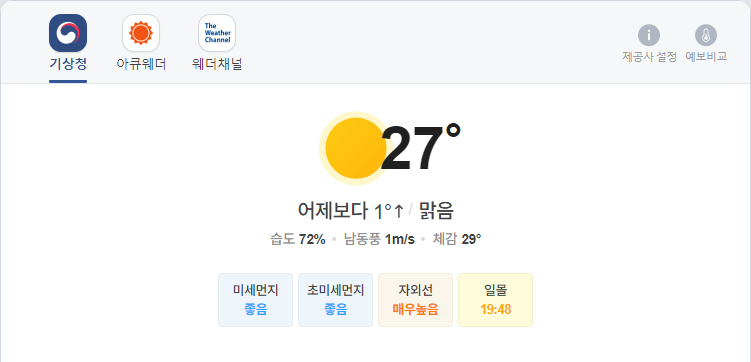
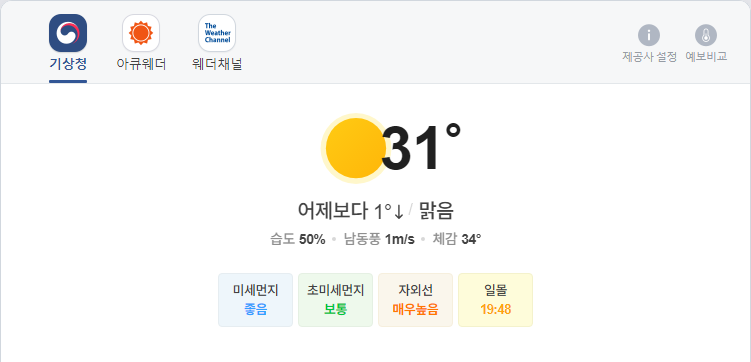
update result

diff --git a/README.md b/README.md
@@ -1,5 +1,5 @@
-##  2021-07-26 05:55:21   월요일 
-##### 날씨   -   어제보다 1° 높아요맑음  
+##  2021-07-26 09:17:18   월요일 
+##### 날씨   -   어제보다 1° 낮아요맑음  
 <center><img src="../img/naver_weather_week.png"></center>
 ----
 ----
@@ -23,7 +23,7 @@
 ##### 시장
 <table border="1" bordercolor="blue" align = "center" >
 <tr align = "right" > <td>Item</td><td>Price</td><td>Diff</td><td>Rate</td><td>Buy</td><td>Sell</td><td>...</td>  </tr>
-<tr align = "right" > <td>USD</td><td>1,151.0</td><td>2.0</td><td><font size="3" color="red">0.17%</font></td><td><font size="3" color="black">1,110</font></td><td><font size="3" color="black">0</font></td><td>0</td>  </tr>
+<tr align = "right" > <td>USD</td><td>1,153.0</td><td>1.8</td><td><font size="3" color="red">0.16%</font></td><td><font size="3" color="black">1,110</font></td><td><font size="3" color="black">0</font></td><td>0</td>  </tr>
 <tr align = "right" > <td>WTI</td><td>72.07</td><td>0.16</td><td><font size="3" color="red">0.22%</font></td><td><font size="3" color="black">29.0</font></td><td><font size="3" color="black">0</font></td><td>0</td>  </tr>
 <tr align = "right" > <td>GOLD</td><td>1,801.0</td><td>-3.6</td><td><font size="3" color="blue">-0.19%</font></td><td><font size="3" color="black">0</font></td><td><font size="3" color="black">0</font></td><td>0</td>  </tr>
 </table>
@@ -31,32 +31,32 @@
 ##### 주가
 <table border="1" bordercolor="blue" align = "center" >
 <tr align = "right" > <td>Item</td><td>Price</td><td>Diff</td><td>Rate</td><td>Purchased</td><td>Sell</td><td>Buy</td>  </tr>
-<tr align = "right" > <td>한국 전력</td><td>25,150</td><td>0</td><td><font size="3" color="black">0.0%</font></td><td>25,720</td><td><font size="3" color="black">27,700</font></td><td><font size="3" color="black">20,700</font></td>  </tr>
-<tr align = "right" > <td>삼성엔지니어.</td><td>23,650</td><td>1,000</td><td><font size="3" color="red">4.42%</font></td><td>18,935</td><td><font size="3" color="black">20,000</font></td><td><font size="3" color="black">8,000</font></td>  </tr>
-<tr align = "right" > <td>CJ CGV</td><td>29,800</td><td>-50</td><td><font size="3" color="blue">-0.17%</font></td><td>34,895</td><td><font size="3" color="black">36,000</font></td><td><font size="3" color="black">0</font></td>  </tr>
-<tr align = "right" > <td>아모레퍼시픽</td><td>234,500</td><td>-6,500</td><td><font size="3" color="blue">-2.7%</font></td><td>235,350</td><td><font size="3" color="black">240,000</font></td><td><font size="3" color="black">130,000</font></td>  </tr>
-<tr align = "right" > <td>한화</td><td>30,400</td><td>100</td><td><font size="3" color="red">0.33%</font></td><td>25,550</td><td><font size="3" color="black">26,250</font></td><td><font size="3" color="black">26,250</font></td>  </tr>
-<tr align = "right" > <td>NAVER</td><td>452,000</td><td>12,000</td><td><font size="3" color="red">2.73%</font></td><td>147,200</td><td><font size="3" color="black">386,000</font></td><td><font size="3" color="black">286,000</font></td>  </tr>
-<tr align = "right" > <td>LG 화학우</td><td>380,000</td><td>-1,000</td><td><font size="3" color="blue">-0.26%</font></td><td>202,490</td><td><font size="3" color="black">384,000</font></td><td><font size="3" color="orangered">384,000</font></td>  </tr>
-<tr align = "right" > <td>스튜디오드래.</td><td>95,200</td><td>600</td><td><font size="3" color="red">0.63%</font></td><td>81,243</td><td><font size="3" color="black">85,200</font></td><td><font size="3" color="black">85,200</font></td>  </tr>
-<tr align = "right" > <td>QV미국IT</td><td>31,660</td><td>485</td><td><font size="3" color="red">1.56%</font></td><td>0</td><td><font size="3" color="black">30,000</font></td><td><font size="3" color="black">20,000</font></td>  </tr>
-<tr align = "right" > <td>삼성 전자우</td><td>73,100</td><td>-200</td><td><font size="3" color="blue">-0.27%</font></td><td>60,675</td><td><font size="3" color="black">76,000</font></td><td><font size="3" color="black">55,000</font></td>  </tr>
-<tr align = "right" > <td>LS</td><td>71,200</td><td>0</td><td><font size="3" color="black">0.0%</font></td><td>71,900</td><td><font size="3" color="black">82,000</font></td><td><font size="3" color="black">60,000</font></td>  </tr>
-<tr align = "right" > <td>한화에어로스.</td><td>51,800</td><td>-400</td><td><font size="3" color="blue">-0.77%</font></td><td>25,700</td><td><font size="3" color="black">30,000</font></td><td><font size="3" color="black">24,000</font></td>  </tr>
-<tr align = "right" > <td>한화시스템.</td><td>17,000</td><td>-50</td><td><font size="3" color="blue">-0.29%</font></td><td>16,875</td><td><font size="3" color="black">30,000</font></td><td><font size="3" color="black">14,000</font></td>  </tr>
-<tr align = "right" > <td>카카오</td><td>149,500</td><td>2,000</td><td><font size="3" color="red">1.36%</font></td><td>405,500</td><td><font size="3" color="black">440,000</font></td><td><font size="3" color="orangered">400,000</font></td>  </tr>
-<tr align = "right" > <td>호텔 신라</td><td>94,300</td><td>-1,700</td><td><font size="3" color="blue">-1.77%</font></td><td>88,650</td><td><font size="3" color="black">100,000</font></td><td><font size="3" color="black">70,000</font></td>  </tr>
-<tr align = "right" > <td>S-Oil</td><td>96,300</td><td>-400</td><td><font size="3" color="blue">-0.41%</font></td><td>62,842</td><td><font size="3" color="black">100,000</font></td><td><font size="3" color="black">50,000</font></td>  </tr>
-<tr align = "right" > <td>LG전자</td><td>166,500</td><td>2,500</td><td><font size="3" color="red">1.52%</font></td><td>82,022</td><td><font size="3" color="black">100,000</font></td><td><font size="3" color="black">60,000</font></td>  </tr>
-<tr align = "right" > <td>KT&G</td><td>82,900</td><td>0</td><td><font size="3" color="black">0.0%</font></td><td>79,700</td><td><font size="3" color="black">100,000</font></td><td><font size="3" color="black">70,000</font></td>  </tr>
-<tr align = "right" > <td>지역난방공사</td><td>42,200</td><td>50</td><td><font size="3" color="red">0.12%</font></td><td>43,590</td><td><font size="3" color="black">60,000</font></td><td><font size="3" color="black">30,000</font></td>  </tr>
-<tr align = "right" > <td>맥쿼리인프라</td><td>12,450</td><td>50</td><td><font size="3" color="red">0.4%</font></td><td>12,577</td><td><font size="3" color="black">30,000</font></td><td><font size="3" color="black">10,000</font></td>  </tr>
-<tr align = "right" > <td>KOEDX은행</td><td>7,360</td><td>0</td><td><font size="3" color="black">0.0%</font></td><td>7,578</td><td><font size="3" color="black">8,825</font></td><td><font size="3" color="black">6,225</font></td>  </tr>
-<tr align = "right" > <td>글로벌럭셔리</td><td>18,025</td><td>0</td><td><font size="3" color="black">0.0%</font></td><td>16,302</td><td><font size="3" color="black">20,000</font></td><td><font size="3" color="black">10,000</font></td>  </tr>
-<tr align = "right" > <td>TIRGER200건설</td><td>3,385</td><td>0</td><td><font size="3" color="black">0.0%</font></td><td>3,440</td><td><font size="3" color="black">4,000</font></td><td><font size="3" color="black">3,000</font></td>  </tr>
-<tr align = "right" > <td>KODEXK미래차</td><td>10,890</td><td>-65</td><td><font size="3" color="blue">-0.59%</font></td><td>10,955</td><td><font size="3" color="black">20,000</font></td><td><font size="3" color="black">10,000</font></td>  </tr>
-<tr align = "right" > <td>TIGER글로벌BBIG</td><td>11,585</td><td>90</td><td><font size="3" color="red">0.78%</font></td><td>11,020</td><td><font size="3" color="black">20,000</font></td><td><font size="3" color="black">10,000</font></td>  </tr>
-<tr align = "right" > <td>TIGER퓨처모빌리티</td><td>11,105</td><td>-45</td><td><font size="3" color="blue">-0.4%</font></td><td>10,695</td><td><font size="3" color="black">20,000</font></td><td><font size="3" color="black">10,000</font></td>  </tr>
-<tr align = "right" > <td>한국금융지주</td><td>112,000</td><td>9,500</td><td><font size="3" color="red">9.27%</font></td><td>0</td><td><font size="3" color="black">82,000</font></td><td><font size="3" color="black">60,000</font></td>  </tr>
+<tr align = "right" > <td>한국 전력</td><td>25,100</td><td>-50</td><td><font size="3" color="blue">-0.2%</font></td><td>25,720</td><td><font size="3" color="black">27,700</font></td><td><font size="3" color="black">20,700</font></td>  </tr>
+<tr align = "right" > <td>삼성엔지니어.</td><td>23,250</td><td>-400</td><td><font size="3" color="blue">-1.69%</font></td><td>18,935</td><td><font size="3" color="black">20,000</font></td><td><font size="3" color="black">8,000</font></td>  </tr>
+<tr align = "right" > <td>CJ CGV</td><td>29,500</td><td>-300</td><td><font size="3" color="blue">-1.01%</font></td><td>34,895</td><td><font size="3" color="black">36,000</font></td><td><font size="3" color="black">0</font></td>  </tr>
+<tr align = "right" > <td>아모레퍼시픽</td><td>233,000</td><td>-1,500</td><td><font size="3" color="blue">-0.64%</font></td><td>235,350</td><td><font size="3" color="black">240,000</font></td><td><font size="3" color="black">130,000</font></td>  </tr>
+<tr align = "right" > <td>한화</td><td>30,450</td><td>50</td><td><font size="3" color="red">0.16%</font></td><td>25,550</td><td><font size="3" color="black">26,250</font></td><td><font size="3" color="black">26,250</font></td>  </tr>
+<tr align = "right" > <td>NAVER</td><td>460,000</td><td>8,000</td><td><font size="3" color="red">1.77%</font></td><td>147,200</td><td><font size="3" color="black">386,000</font></td><td><font size="3" color="black">286,000</font></td>  </tr>
+<tr align = "right" > <td>LG 화학우</td><td>378,000</td><td>-2,000</td><td><font size="3" color="blue">-0.53%</font></td><td>202,490</td><td><font size="3" color="black">384,000</font></td><td><font size="3" color="orangered">384,000</font></td>  </tr>
+<tr align = "right" > <td>스튜디오드래.</td><td>94,000</td><td>-1,200</td><td><font size="3" color="blue">-1.26%</font></td><td>81,243</td><td><font size="3" color="black">85,200</font></td><td><font size="3" color="black">85,200</font></td>  </tr>
+<tr align = "right" > <td>QV미국IT</td><td>31,660</td><td>0</td><td><font size="3" color="black">0.0%</font></td><td>0</td><td><font size="3" color="black">30,000</font></td><td><font size="3" color="black">20,000</font></td>  </tr>
+<tr align = "right" > <td>삼성 전자우</td><td>73,000</td><td>-100</td><td><font size="3" color="blue">-0.14%</font></td><td>60,675</td><td><font size="3" color="black">76,000</font></td><td><font size="3" color="black">55,000</font></td>  </tr>
+<tr align = "right" > <td>LS</td><td>70,800</td><td>-400</td><td><font size="3" color="blue">-0.56%</font></td><td>71,900</td><td><font size="3" color="black">82,000</font></td><td><font size="3" color="black">60,000</font></td>  </tr>
+<tr align = "right" > <td>한화에어로스.</td><td>51,300</td><td>-500</td><td><font size="3" color="blue">-0.97%</font></td><td>25,700</td><td><font size="3" color="black">30,000</font></td><td><font size="3" color="black">24,000</font></td>  </tr>
+<tr align = "right" > <td>한화시스템.</td><td>17,000</td><td>0</td><td><font size="3" color="black">0.0%</font></td><td>16,875</td><td><font size="3" color="black">30,000</font></td><td><font size="3" color="black">14,000</font></td>  </tr>
+<tr align = "right" > <td>카카오</td><td>150,500</td><td>1,000</td><td><font size="3" color="red">0.67%</font></td><td>405,500</td><td><font size="3" color="black">440,000</font></td><td><font size="3" color="orangered">400,000</font></td>  </tr>
+<tr align = "right" > <td>호텔 신라</td><td>94,000</td><td>-300</td><td><font size="3" color="blue">-0.32%</font></td><td>88,650</td><td><font size="3" color="black">100,000</font></td><td><font size="3" color="black">70,000</font></td>  </tr>
+<tr align = "right" > <td>S-Oil</td><td>95,700</td><td>-600</td><td><font size="3" color="blue">-0.62%</font></td><td>62,842</td><td><font size="3" color="black">100,000</font></td><td><font size="3" color="black">50,000</font></td>  </tr>
+<tr align = "right" > <td>LG전자</td><td>165,500</td><td>-1,000</td><td><font size="3" color="blue">-0.6%</font></td><td>82,022</td><td><font size="3" color="black">100,000</font></td><td><font size="3" color="black">60,000</font></td>  </tr>
+<tr align = "right" > <td>KT&G</td><td>82,700</td><td>-200</td><td><font size="3" color="blue">-0.24%</font></td><td>79,700</td><td><font size="3" color="black">100,000</font></td><td><font size="3" color="black">70,000</font></td>  </tr>
+<tr align = "right" > <td>지역난방공사</td><td>42,250</td><td>50</td><td><font size="3" color="red">0.12%</font></td><td>43,590</td><td><font size="3" color="black">60,000</font></td><td><font size="3" color="black">30,000</font></td>  </tr>
+<tr align = "right" > <td>맥쿼리인프라</td><td>12,350</td><td>-100</td><td><font size="3" color="blue">-0.8%</font></td><td>12,577</td><td><font size="3" color="black">30,000</font></td><td><font size="3" color="black">10,000</font></td>  </tr>
+<tr align = "right" > <td>KOEDX은행</td><td>7,325</td><td>-35</td><td><font size="3" color="blue">-0.48%</font></td><td>7,578</td><td><font size="3" color="black">8,825</font></td><td><font size="3" color="black">6,225</font></td>  </tr>
+<tr align = "right" > <td>글로벌럭셔리</td><td>18,180</td><td>155</td><td><font size="3" color="red">0.86%</font></td><td>16,302</td><td><font size="3" color="black">20,000</font></td><td><font size="3" color="black">10,000</font></td>  </tr>
+<tr align = "right" > <td>TIRGER200건설</td><td>3,365</td><td>-20</td><td><font size="3" color="blue">-0.59%</font></td><td>3,440</td><td><font size="3" color="black">4,000</font></td><td><font size="3" color="black">3,000</font></td>  </tr>
+<tr align = "right" > <td>KODEXK미래차</td><td>10,895</td><td>5</td><td><font size="3" color="red">0.05%</font></td><td>10,955</td><td><font size="3" color="black">20,000</font></td><td><font size="3" color="black">10,000</font></td>  </tr>
+<tr align = "right" > <td>TIGER글로벌BBIG</td><td>11,680</td><td>95</td><td><font size="3" color="red">0.82%</font></td><td>11,020</td><td><font size="3" color="black">20,000</font></td><td><font size="3" color="black">10,000</font></td>  </tr>
+<tr align = "right" > <td>TIGER퓨처모빌리티</td><td>11,100</td><td>-5</td><td><font size="3" color="blue">-0.05%</font></td><td>10,695</td><td><font size="3" color="black">20,000</font></td><td><font size="3" color="black">10,000</font></td>  </tr>
+<tr align = "right" > <td>한국금융지주</td><td>109,500</td><td>-2,500</td><td><font size="3" color="blue">-2.23%</font></td><td>0</td><td><font size="3" color="black">82,000</font></td><td><font size="3" color="black">60,000</font></td>  </tr>
 </table>
 ----
